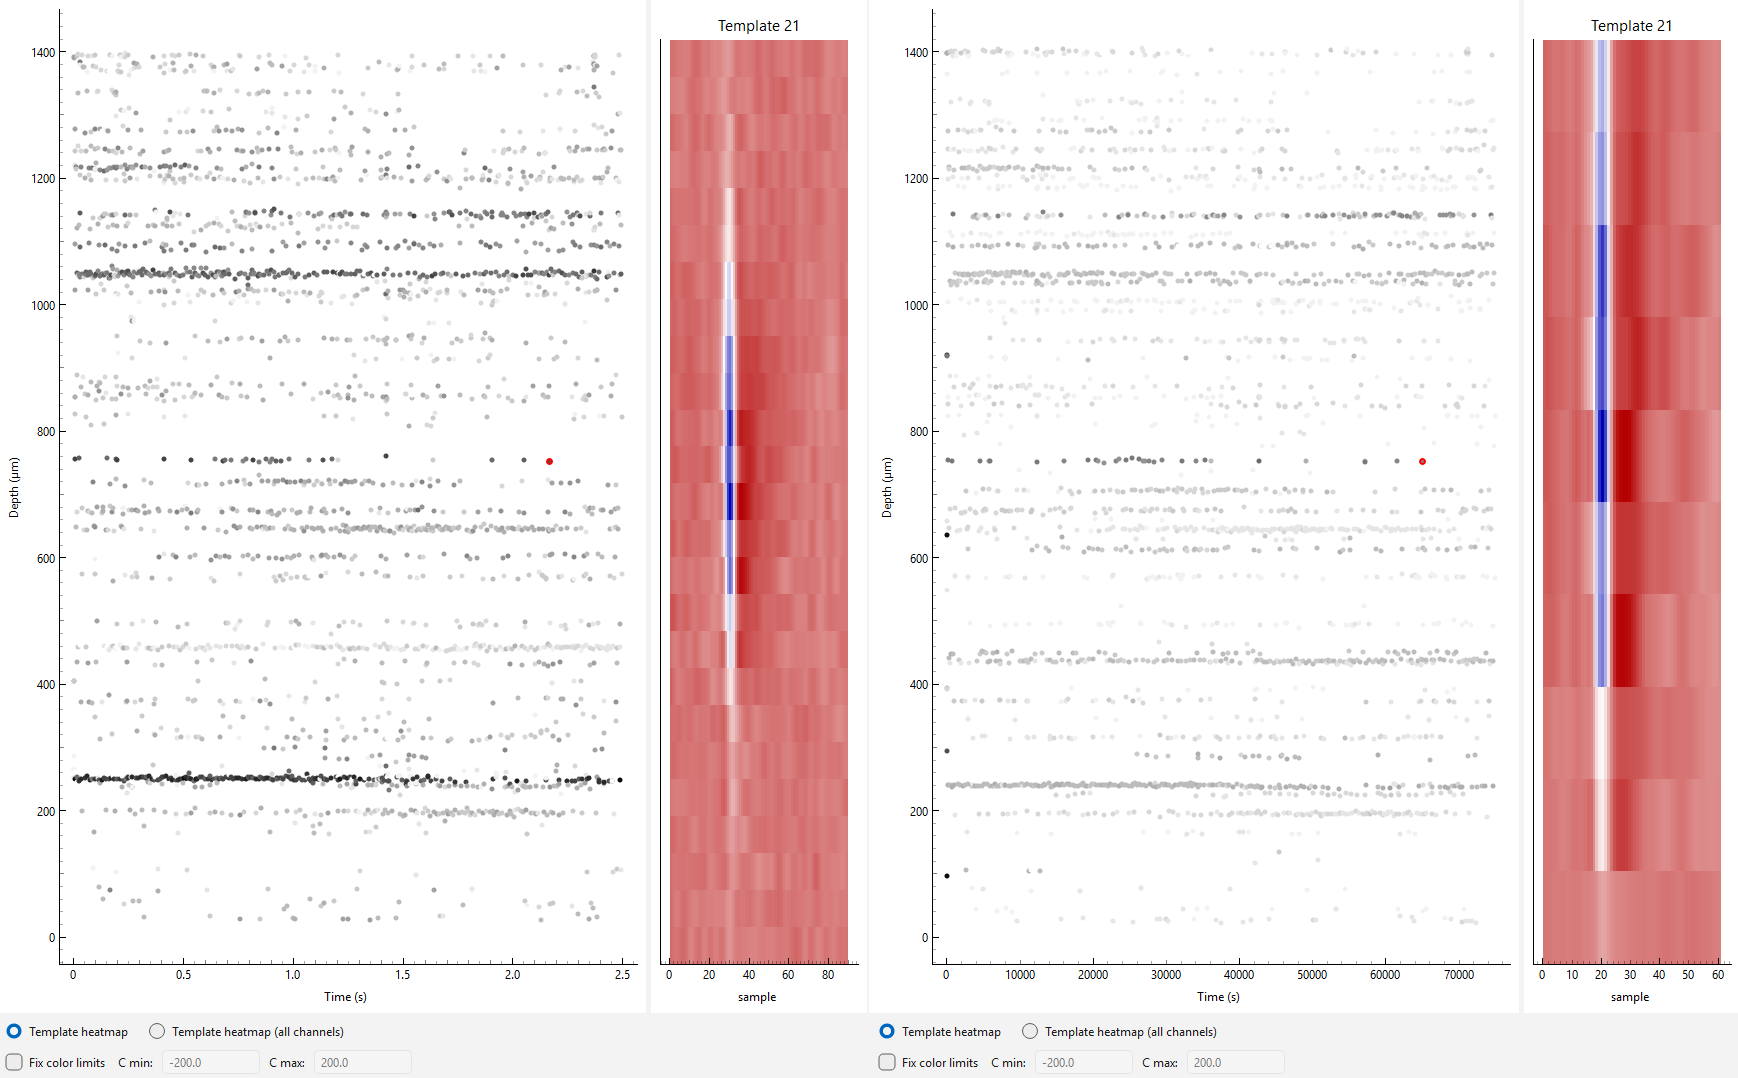
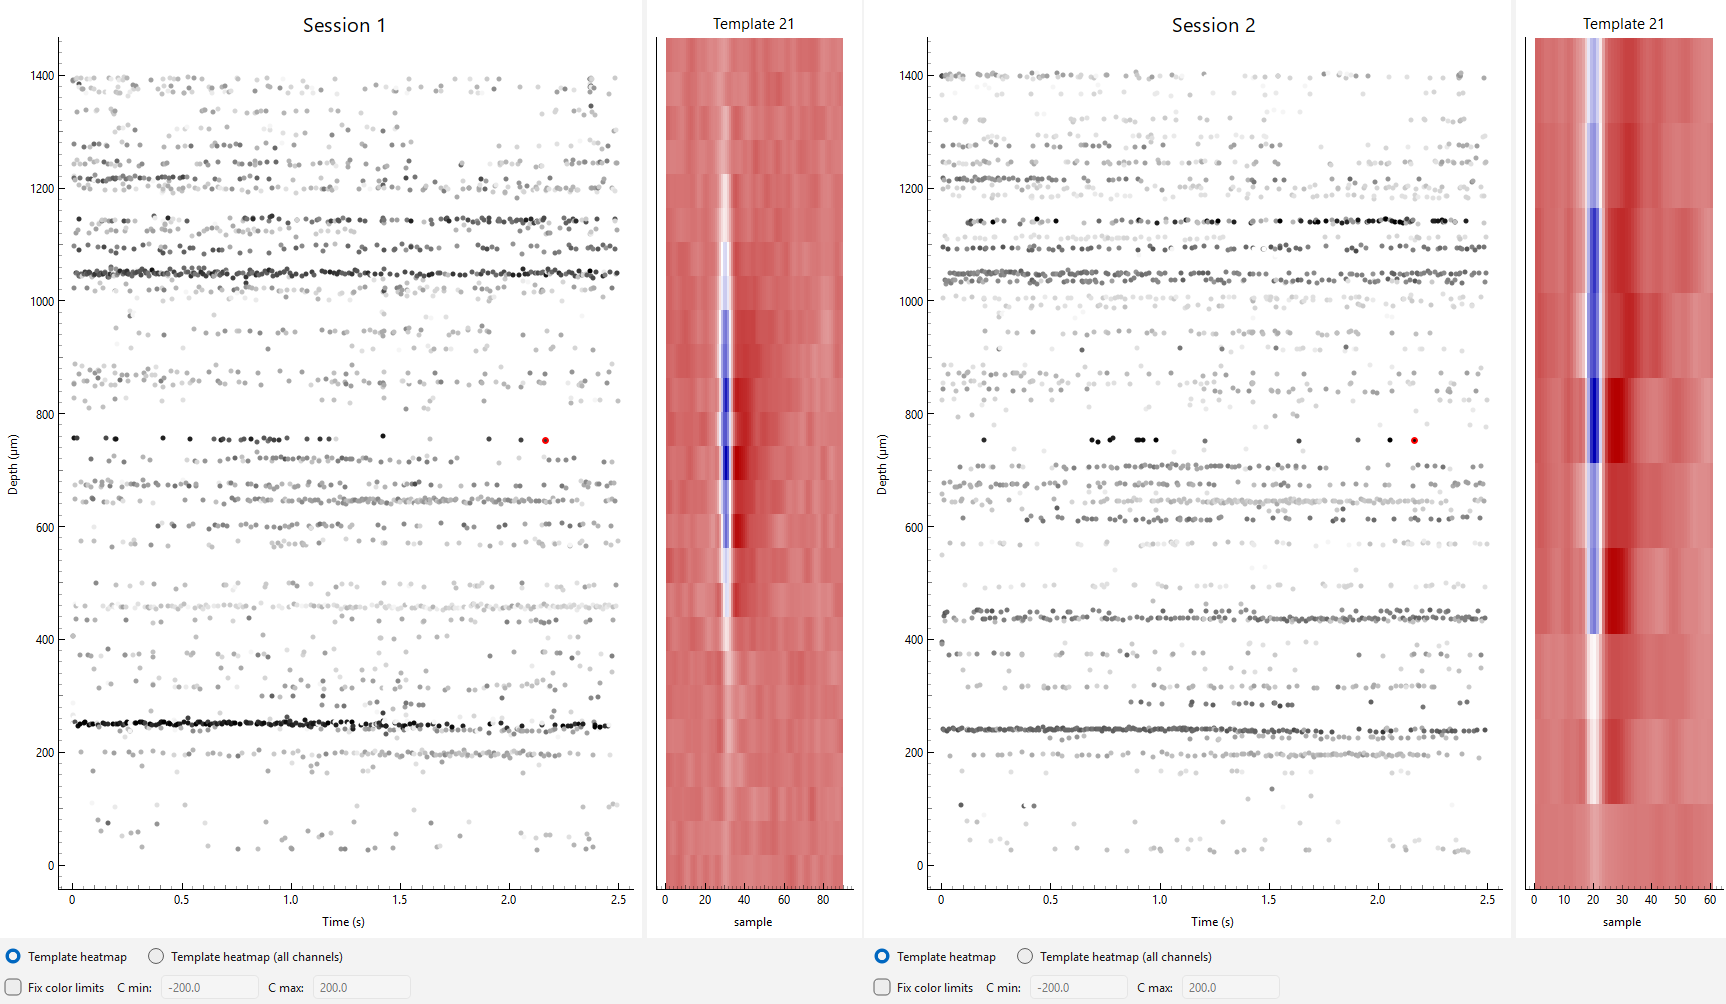
Ignore max spikes per unit (#16)
* Ignore max_spikes_per_unit for sortinganalyzer.

* Fix images with incorrect time.

* Update tests.

diff --git a/tests/test_sorting_analyzer.py b/tests/test_sorting_analyzer.py
@@ -22,15 +22,10 @@ class TestFromSortingAnalyzer:
         analyzer = si.load_sorting_analyzer(ANALYZER_PATH)
         loader = DataLoader(analyzer, verbose=False)
 
-        # Expected values from the analyzer extensions
-        random_spike_indices = analyzer.get_extension("random_spikes").data[
-            "random_spikes_indices"
-        ]
         spike_vector = analyzer.sorting.to_spike_vector()
 
         expected_times = (
-            spike_vector["sample_index"][random_spike_indices]
-            / analyzer.sorting.get_sampling_frequency()
+            spike_vector["sample_index"] / analyzer.sorting.get_sampling_frequency()
         )
         np.testing.assert_array_equal(loader._spike_times, expected_times)
 
@@ -44,7 +39,7 @@ class TestFromSortingAnalyzer:
         ]["y"]
         np.testing.assert_array_equal(loader._spike_depths, expected_depths)
 
-        expected_templates = spike_vector["unit_index"][random_spike_indices]
+        expected_templates = spike_vector["unit_index"]
         np.testing.assert_array_equal(loader._spike_templates, expected_templates)
 
         expected_waveforms = analyzer.get_extension("templates").data["average"]
@@ -64,6 +59,27 @@ class TestFromSortingAnalyzer:
             loader.channel_locations,
         ):
             assert not arr.flags.writeable
+
+    def test_loaded_spikes_ignore_random_spikes_subset(self):
+        analyzer = si.load_sorting_analyzer(ANALYZER_PATH).copy()
+        spike_vector = analyzer.sorting.to_spike_vector()
+
+        random_spikes = analyzer.get_extension("random_spikes")
+        random_spikes.data["random_spikes_indices"] = random_spikes.data[
+            "random_spikes_indices"
+        ][::2]
+        assert random_spikes.data["random_spikes_indices"].size < spike_vector.size
+
+        loader = DataLoader(analyzer, verbose=False)
+
+        expected_times = (
+            spike_vector["sample_index"] / analyzer.sorting.get_sampling_frequency()
+        )
+        np.testing.assert_array_equal(loader._spike_times, expected_times)
+        np.testing.assert_array_equal(
+            loader._spike_templates, spike_vector["unit_index"]
+        )
+        assert loader._spike_times.size == spike_vector.size
 
     def test_good_units_only_keeps_kslabel_good_units(self):
         analyzer = si.load_sorting_analyzer(ANALYZER_PATH)

diff --git a/driftplots/extractors/analyzer_helpers.py b/driftplots/extractors/analyzer_helpers.py
@@ -10,26 +10,19 @@ def get_sorting_analyzer(
     analyzer: si.SortingAnalyzer,
 ) -> tuple[np.ndarray, np.ndarray, np.ndarray, np.ndarray, np.ndarray, np.ndarray]:
     """
-    Get the required data from the SortingAnalyzer. Note that this
-    will not get all detected spikes, but rather the number of spikes
-    specified when creating the analyzer, `max_spikes_per_unit`.
+    Get the required data from the SortingAnalyzer.
     """
-    random_spike_indices = analyzer.get_extension("random_spikes").data[
-        "random_spikes_indices"
-    ]
     spike_vector = analyzer.sorting.to_spike_vector()
     spike_times = (
-        spike_vector["sample_index"][random_spike_indices]
-        / analyzer.sorting.get_sampling_frequency()
+        spike_vector["sample_index"] / analyzer.sorting.get_sampling_frequency()
     )
     spike_amplitudes = np.abs(
         analyzer.get_extension("spike_amplitudes").data["amplitudes"]
     )
-
     spike_depths = analyzer.get_extension("spike_locations").data["spike_locations"][
         "y"
     ]
-    spike_templates = spike_vector["unit_index"][random_spike_indices]
+    spike_templates = spike_vector["unit_index"]
 
     # Get the templates, assume only one method was used. If multiple
     # methods were used, use the first and throw a warning. If people

diff --git a/examples/example_data/create_analyzer.py b/examples/example_data/create_analyzer.py
@@ -17,9 +17,9 @@ rec = si_prepro.bandpass_filter(rec, freq_min=300, freq_max=6000)
 rec = si_prepro.common_reference(rec, operator="median")
 
 if SAVE_SORTING:
-    #  out_path = base_path / "sorting"
-    # out_path.mkdir()
-    sort = run_sorter("kilosort4", rec, folder=base_path / "sorting")
+    out_path = base_path / "sorting"
+    out_path.mkdir()
+    sort = run_sorter("kilosort4", rec, folder=out_path)
 else:
     sort = si_extractors.read_kilosort(
         base_path / "sorting" / "kilosort4_output" / "sorter_output"
@@ -29,9 +29,6 @@ analyzer = si.create_sorting_analyzer(sort, rec)
 analyzer.compute(
     "random_spikes",
     method="uniform",
-    # This determines the number of spikes that
-    # will appear on the SI drift plot
-    max_spikes_per_unit=1_000_000,
 )
 analyzer.compute("waveforms", ms_before=1.0, ms_after=2.0)
 analyzer.compute("templates", operators=["average"])

diff --git a/docs/source/pages/how-to-use-driftplots.md b/docs/source/pages/how-to-use-driftplots.md
@@ -28,8 +28,7 @@ and not reflect any later changes in Phy (`spike_templates.npy` is used for the 
 If passing a `SortingAnalyzer`, it is expected that the required extensions
 have already been computed. See
 [this example](https://github.com/neuroinformatics-unit/driftplots/blob/e8ec328e14cc848feca3e7e90604501bb9e343f1/examples/example_data/create_analyzer.py#L1)
-for the required extensions. Note that the number of spikes displayed will depend
-on the argument set for `max_spikes_per_unit` used when computing `"random_spikes"`.
+for the required extensions.
 
 By default, the number of spikes displayed will be decimated to around `100,000`.
 
@@ -194,5 +193,3 @@ for path_or_analyzer in SORTING_SESSIONS:
 multi = MultiSessionDriftmapWidget(panels)
 
 multi.plot()
-
-```
